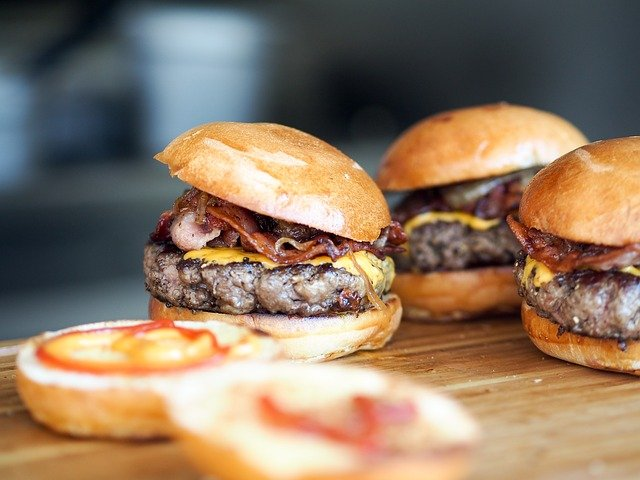
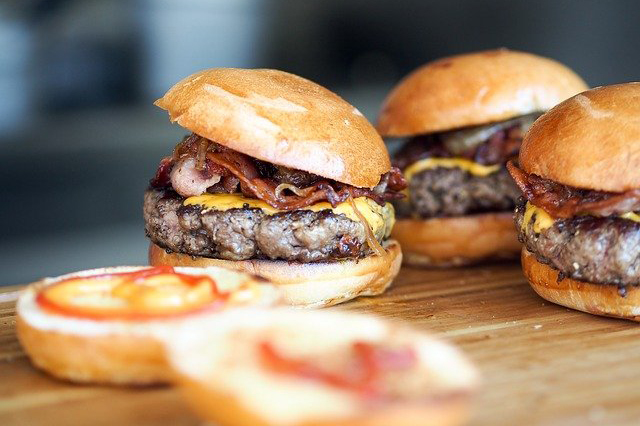
20/11 pequeño ajuste en imagenes y registro de res

diff --git a/web/registro.html b/web/registro.html
@@ -3,7 +3,23 @@
 <head>
     <meta charset="UTF-8">
     <meta name="viewport" content="width=device-width, initial-scale=1.0">
-    <title>Inicia Sesión</title>
+	<title>Registra tu restaurante</title>
+	<link rel="icon" href="img/favicon.ico" />
+    <!-- CSS -->
+
+    <link rel="stylesheet" href="https://cdn.jsdelivr.net/npm/bootstrap@4.5.3/dist/css/bootstrap.min.css"
+        integrity="sha384-TX8t27EcRE3e/ihU7zmQxVncDAy5uIKz4rEkgIXeMed4M0jlfIDPvg6uqKI2xXr2" crossorigin="anonymous">
+    <link rel="stylesheet" type="text/css" href="estilo.css">
+
+    <!-- jQuery and JS bundle w/ Popper.js -->
+
+    <script src="https://code.jquery.com/jquery-3.5.1.slim.min.js"
+        integrity="sha384-DfXdz2htPH0lsSSs5nCTpuj/zy4C+OGpamoFVy38MVBnE+IbbVYUew+OrCXaRkfj"
+        crossorigin="anonymous"></script>
+    <script src="https://cdn.jsdelivr.net/npm/bootstrap@4.5.3/dist/js/bootstrap.bundle.min.js"
+        integrity="sha384-ho+j7jyWK8fNQe+A12Hb8AhRq26LrZ/JpcUGGOn+Y7RsweNrtN/tE3MoK7ZeZDyx"
+        crossorigin="anonymous"></script>
+    <link href="https://use.fontawesome.com/releases/v5.0.6/css/all.css" rel="stylesheet">
     <style>
         body{
 	margin:0;
@@ -20,7 +36,7 @@ a{color:inherit;text-decoration:none}
 	width:100%;
 	margin:2px auto;
 	max-width:525px;
-	min-height:660px;
+	min-height:730px;
 	position:relative;
 	background:url(img/comida.jpg) no-repeat 1px;
     
@@ -159,45 +175,81 @@ a{color:inherit;text-decoration:none}
     </style>
 </head>
 <body>
+	<div class="container">
+        <nav class="navbar navbar-light bg-light">
+            <a class="navbar-brand" href="index.html">
+              <img src="img/logo.png" width="130" height="30" class="d-inline-block align-top" alt="" loading="lazy">
+              
+            </a>
+            <a class="nav-link" href="#">Ayuda</a>
+           
+          </nav>
+
+        
+    </div>
     <div class="login-wrap">
         <div class="login-html">
-            <input id="tab-1" type="radio" name="tab" class="sign-in" checked><label for="tab-1" class="tab">Registra tu restaurante</label>
-            <input id="tab-2" type="radio" name="tab" class="sign-up"><label for="tab-2" class="tab"></label>
+            <input id="tab-1" type="radio" name="tab" class="sign-in" checked><label for="tab-1" class="tab">Paso 1</label>
+            <input id="tab-2" type="radio" name="tab" class="sign-up" ><label for="tab-2" class="tab">Paso 2</label>
             <div class="login-form">
-                <div class="sign-in-htm">
+				<div class="sign-in-htm">
                     <div class="group">
-                        <label for="nombre" class="label">Nombre</label>
+                        <label for="nombre" class="label">Nombre del restaurante</label>
                         <input id="nombre" type="text" class="input">
                     </div>
                     <div class="group">
                         <label for="cif" class="label">CIF</label>
-                        <input id="cif" type="text" class="input">
+                        <input id="cif" type="number" class="input">
+                    </div>
+                    <div class="group">
+                        <label for="postal" class="label">Código postal</label>
+                        <input id="postal" type="number" class="input">
+                    </div>
+                    <div class="group">
+                        <label for="direccion" class="label">Dirección del restaurante</label>
+                        <input id="direccion" type="text" class="input">
+                    </div>
+                    <div class="group">
+                        <label for="Ciudad" class="label">Ciudad</label>
+                        <input id="diudad" type="text" class="input">
+                    </div>
+                    <div class="group">
+                        <label for="cocina" class="label">Tipo de cocina</label>
+                        <select name="cocina" id="cocina">
+							<option value="seleciona" disable hidden>Por favor seleciona</option>
+						</select>
+                    </div>
+                    <div class="group">
+                        <label for="domicilio" class="label">¿Tienes servicio a domicilio?</label>
+						<select name="domicilio" id="domicilio">
+							<option value="seleciona" disable hidden>Por favor seleciona</option>
+							<option value="opcion1">Envio y recogida</option>
+							<option value="opcion2">Solo recogida</option>
+							<option value="opcion3">Solo envio a domicilio</option>
+						</select>
+                    </div>
+				</div>
+
+                <div class="sign-up-htm">
+                    <div class="group">
+                        <label for="nombre" class="label">Nombre completo del propietario</label>
+                        <input id="nombre" type="text" class="input">
                     </div>
                     <div class="group">
                         <label for="pass" class="label">Contraseña</label>
                         <input id="pass" type="password" class="input" data-type="password">
                     </div>
                     <div class="group">
-                        <label for="pass" class="label">Repite Contraseña</label>
-                        <input id="pass" type="password" class="input" data-type="password">
-                    </div>
-                    <div class="group">
-                        <label for="pass" class="label">Correo Electronico</label>
+                        <label for="pass" class="label">Correo Electronico del restaurante</label>
                         <input id="pass" type="email" class="input">
                     </div>
                     <div class="group">
-                        <label for="pass" class="label">Dirección</label>
-                        <input id="pass" type="text" class="input">
-                    </div>
-                    <div class="group">
-                        <label for="pass" class="label">Teléfono</label>
+                        <label for="pass" class="label">Teléfono del restaurante</label>
                         <input id="pass" type="number" class="input">
                     </div>
                     <div class="group">
                         <input type="submit" class="button" value="Crear cuenta">
                     </div>
-                </div>
-                <div class="sign-up-htm">
                     
                 </div>
             </div>
@@ -205,5 +257,3 @@ a{color:inherit;text-decoration:none}
     </div>
 </body>
 </html>
-
-

diff --git a/web/index.html b/web/index.html
@@ -40,7 +40,12 @@
     </nav>
   </div>
 
-  <div id="carouselExampleSlidesOnly" class="carousel slidehome" data-ride="carousel">
+  <div id="carouselExampleIndicators" class="carousel slide" data-ride="carousel">
+    <ol class="carousel-indicators">
+      <li data-target="#carouselExampleIndicators" data-slide-to="0" class="active"></li>
+      <li data-target="#carouselExampleIndicators" data-slide-to="1"></li>
+      <li data-target="#carouselExampleIndicators" data-slide-to="2"></li>
+    </ol>
     <div class="carousel-inner">
       <div class="carousel-item active">
         <img class="d-block w-100" src="img/food.jpg" alt="First slide">
@@ -52,7 +57,19 @@
         <img class="d-block w-100" src="img/hamburger.jpg" alt="Third slide">
       </div>
     </div>
+    <a class="carousel-control-prev" href="#carouselExampleIndicators" role="button" data-slide="prev">
+      <span class="carousel-control-prev-icon" aria-hidden="true"></span>
+      <span class="sr-only">Previous</span>
+    </a>
+    <a class="carousel-control-next" href="#carouselExampleIndicators" role="button" data-slide="next">
+      <span class="carousel-control-next-icon" aria-hidden="true"></span>
+      <span class="sr-only">Next</span>
+    </a>
   </div>
+
+
+
+
 
   <br>
   <br>

diff --git a/web/inicio.html b/web/inicio.html
@@ -36,7 +36,7 @@ a{color:inherit;text-decoration:none}
 	width:100%;
 	margin:2px auto;
 	max-width:525px;
-	min-height:730px;
+	min-height:820px;
 	position:relative;
 	background:url(img/comida.jpg) no-repeat 1px;
     
@@ -233,6 +233,10 @@ a{color:inherit;text-decoration:none}
                     <div class="group">
                         <label for="direccion" class="label">Dirección</label>
                         <input id="direccion" type="text" class="input">
+					</div>
+					<div class="group">
+                        <label for="postal" class="label">Código postal</label>
+                        <input id="postal" type="number" class="input">
                     </div>
                     <div class="group">
                         <label for="telefono" class="label">Teléfono</label>
